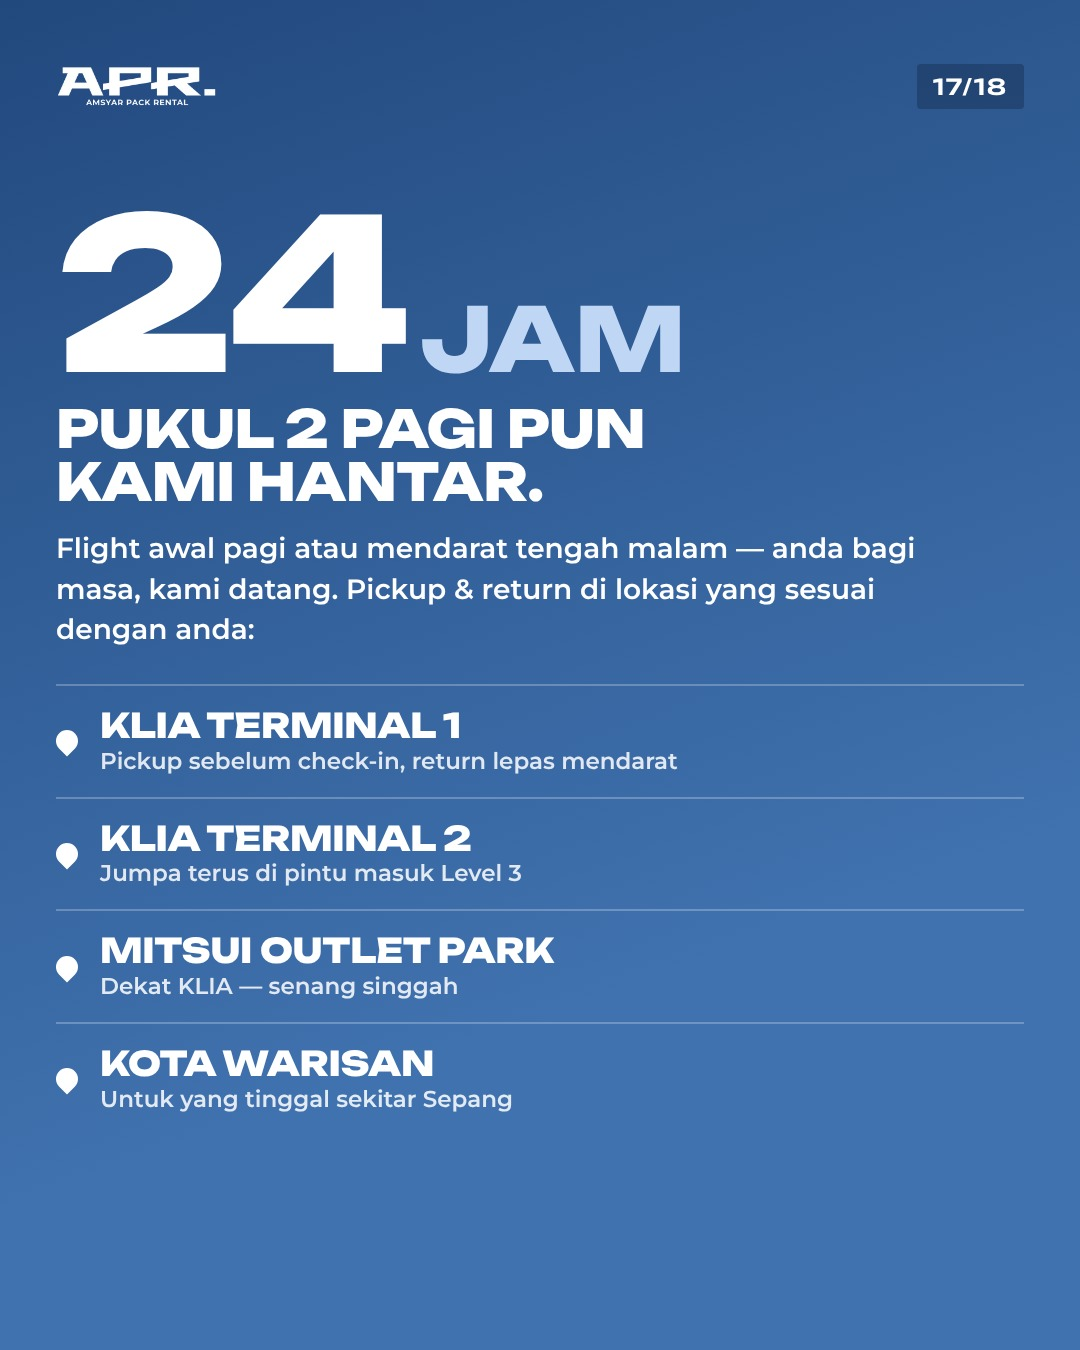
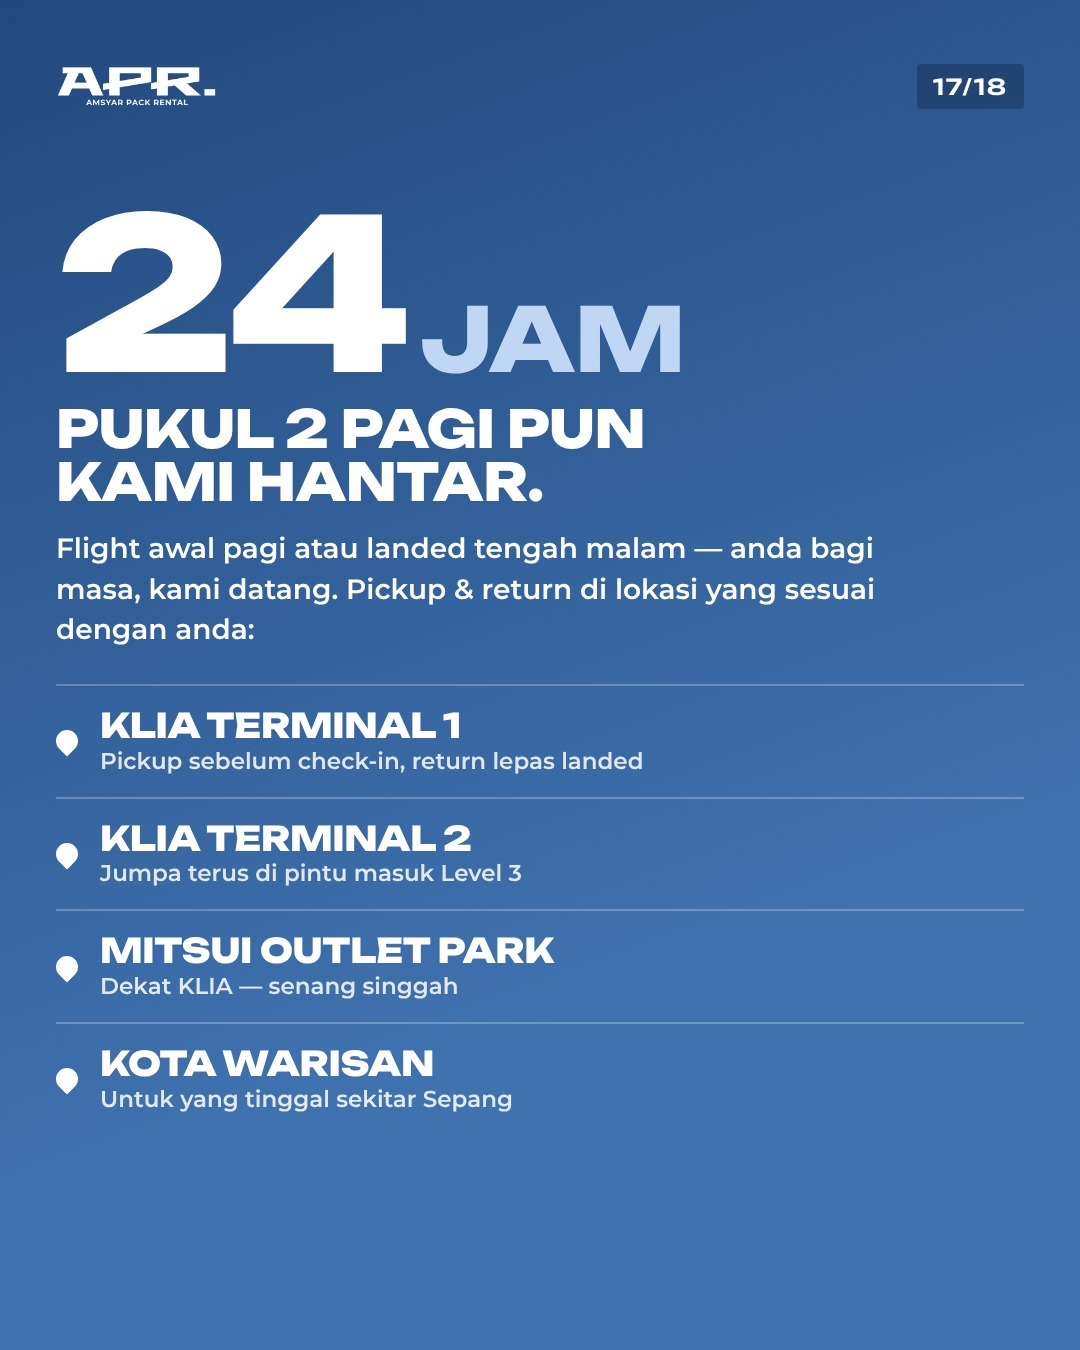
Add phone number to CTA and caption; use "landed" wording
Claude-Session: https://claude.ai/code/session_019Lnm1GLYevifFAGsTJfCxj

Changed region(s): [[0.3361, 0.4044, 0.8556, 0.4356], [0.5194, 0.56, 0.6417, 0.5911]]

diff --git a/apr-carousel/render.js b/apr-carousel/render.js
@@ -104,7 +104,7 @@ const slides = [
   {
     photo: '01', pos: '50% 80%', pos916: '50% 80%', area: 'top', align: 'left', band: 32,
     place: 'Melbourne → KLIA', product: 'Return Airwheel',
-    headline: ['Mendarat.', 'Return. <em>Balik.</em>'],
+    headline: ['Landed.', 'Return. <em>Balik.</em>'],
     body: 'Lepas 8 jam flight, tak payah singgah mana-mana. Return terus di airport, naik Grab, balik tidur.',
   },
   { type: 'products' },
@@ -219,8 +219,8 @@ function serviceSlide(i, n, W, H, fmt) {
     <div style="display:flex;justify-content:space-between;align-items:center"><img src="${logo}" style="height:40px"><span class="count">${String(i + 1).padStart(2, '0')}/${n}</span></div>
     <div class="h" style="font-size:${tall ? 230 : 210}px;line-height:.9;margin-top:${tall ? 80 : 90}px;letter-spacing:-0.03em">24<span style="font-size:.42em;color:#BFD6F5;letter-spacing:0;margin-left:14px">JAM</span></div>
     <div class="h" style="font-size:52px;margin-top:14px">Pukul 2 pagi pun<br>kami hantar.</div>
-    <p style="font-weight:600;font-size:28px;line-height:1.45;margin:20px 0 ${tall ? 60 : 34}px;max-width:900px">Flight awal pagi atau mendarat tengah malam — anda bagi masa, kami datang. Pickup & return di lokasi yang sesuai dengan anda:</p>
-    ${loc('KLIA Terminal 1', 'Pickup sebelum check-in, return lepas mendarat')}
+    <p style="font-weight:600;font-size:28px;line-height:1.45;margin:20px 0 ${tall ? 60 : 34}px;max-width:900px">Flight awal pagi atau landed tengah malam — anda bagi masa, kami datang. Pickup & return di lokasi yang sesuai dengan anda:</p>
+    ${loc('KLIA Terminal 1', 'Pickup sebelum check-in, return lepas landed')}
     ${loc('KLIA Terminal 2', 'Jumpa terus di pintu masuk Level 3')}
     ${loc('Mitsui Outlet Park', 'Dekat KLIA — senang singgah')}
     ${loc('Kota Warisan', 'Untuk yang tinggal sekitar Sepang')}
@@ -235,17 +235,18 @@ function ctaSlide(i, n, W, H, fmt) {
   <div style="position:absolute;inset:0;background:repeating-linear-gradient(-14deg, rgba(255,255,255,0) 0 120px, rgba(255,255,255,.035) 120px 124px)"></div>
   <div style="position:absolute;left:56px;right:56px;${tall ? 'top:50%;transform:translateY(-54%);zoom:1.12' : 'top:64px'}">
     <div style="display:flex;justify-content:flex-end"><span class="count">${String(i + 1).padStart(2, '0')}/${n}</span></div>
-    <div style="text-align:center;margin-top:${tall ? 120 : 90}px">
+    <div style="text-align:center;margin-top:${tall ? 120 : 80}px">
       <img src="${logo}" style="width:${tall ? 620 : 560}px">
     </div>
-    <div class="h" style="font-size:64px;text-align:center;margin-top:${tall ? 90 : 70}px">Destinasi seterusnya<br><em>giliran anda.</em></div>
+    <div class="h" style="font-size:64px;text-align:center;margin-top:${tall ? 90 : 60}px">Destinasi seterusnya<br><em>giliran anda.</em></div>
     <div style="margin:${tall ? 60 : 36}px auto 0;width:max-content">
       ${step('1', 'DM kami tarikh & destinasi')}
       ${step('2', 'Pilih Airwheel / Pocket 3')}
       ${step('3', 'Pickup di airport — terus fly')}
     </div>
     <div style="margin:${tall ? 80 : 46}px auto 0;width:max-content;background:#fff;color:#22497E;font-family:'Unbounded';font-weight:800;font-size:34px;letter-spacing:.04em;text-transform:uppercase;padding:26px 46px;clip-path:polygon(0 0,100% 0,calc(100% - 22px) 100%,0 100%)">DM “APR” sekarang</div>
-    <p style="text-align:center;font-weight:600;font-size:24px;margin-top:22px;opacity:.9">Slot musim cuti cepat habis — tempah awal.</p>
+    <div style="text-align:center;margin-top:${tall ? 40 : 30}px"><div style="font-weight:700;font-size:22px;letter-spacing:.18em;text-transform:uppercase;opacity:.85">WhatsApp / Call</div><div class="h" style="font-size:58px;margin-top:8px;letter-spacing:.01em">019-336 0313</div></div>
+    <p style="text-align:center;font-weight:600;font-size:24px;margin-top:18px;opacity:.9">Slot musim cuti cepat habis — tempah awal.</p>
   </div>`;
 }
 

diff --git a/apr-carousel/CAPTION.md b/apr-carousel/CAPTION.md
@@ -12,6 +12,7 @@ Swipe → tengok ke mana mereka pergi.
 🕑 **24 JAM.** Flight pukul 2 pagi pun kami hantar.
 📍 Pickup & return: KLIA T1 • KLIA T2 • Mitsui Outlet Park • Kota Warisan
 
-👉 DM "APR" sekarang. Slot musim cuti cepat habis, tempah awal.
+👉 DM "APR" atau WhatsApp/call 📞 019-336 0313
+Slot musim cuti cepat habis, tempah awal.
 
 #AmsyarPackRental #APR #SewaAirwheel #Airwheel #SewaDJI #OsmoPocket3 #DJIPocket3 #KLIA #KLIA2 #TravelMalaysia #CutiCuti #TravelTips #Umrah #JapanTrip #TikTokMalaysia
